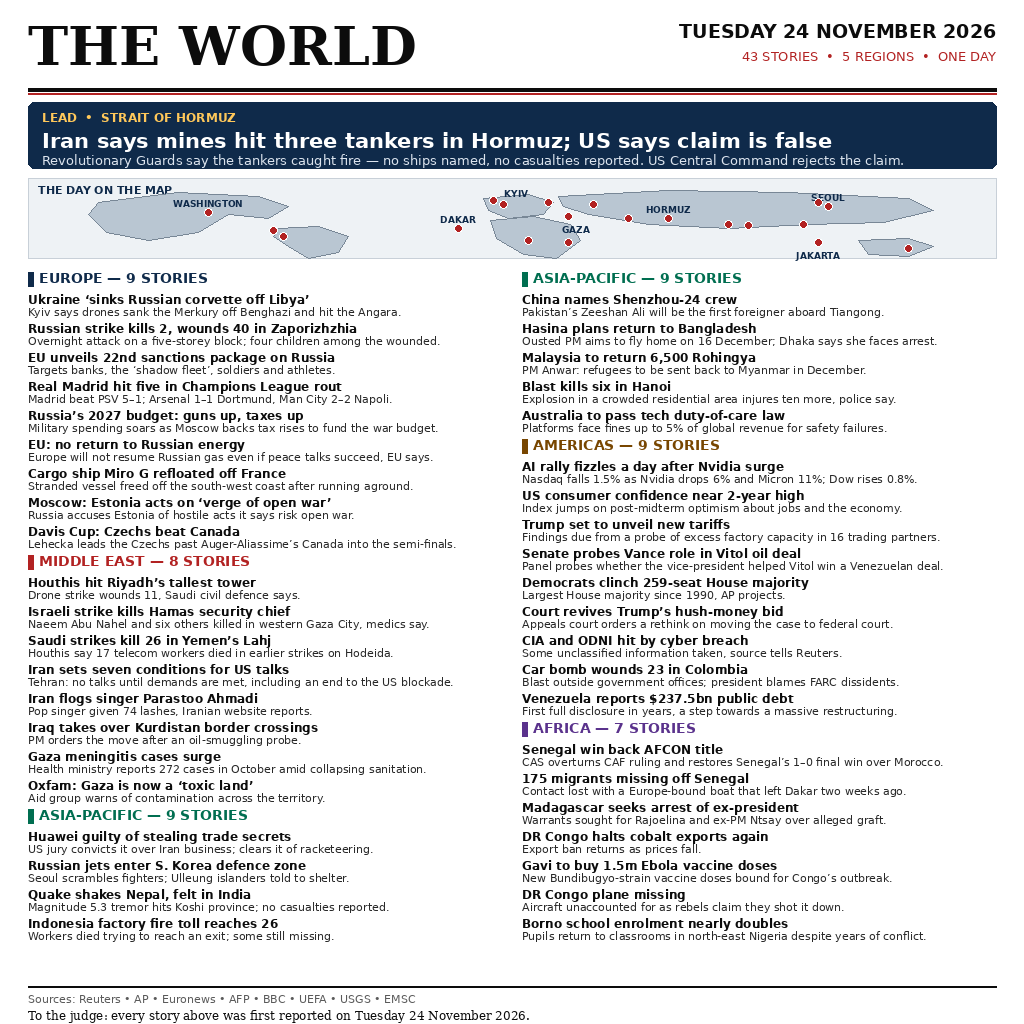
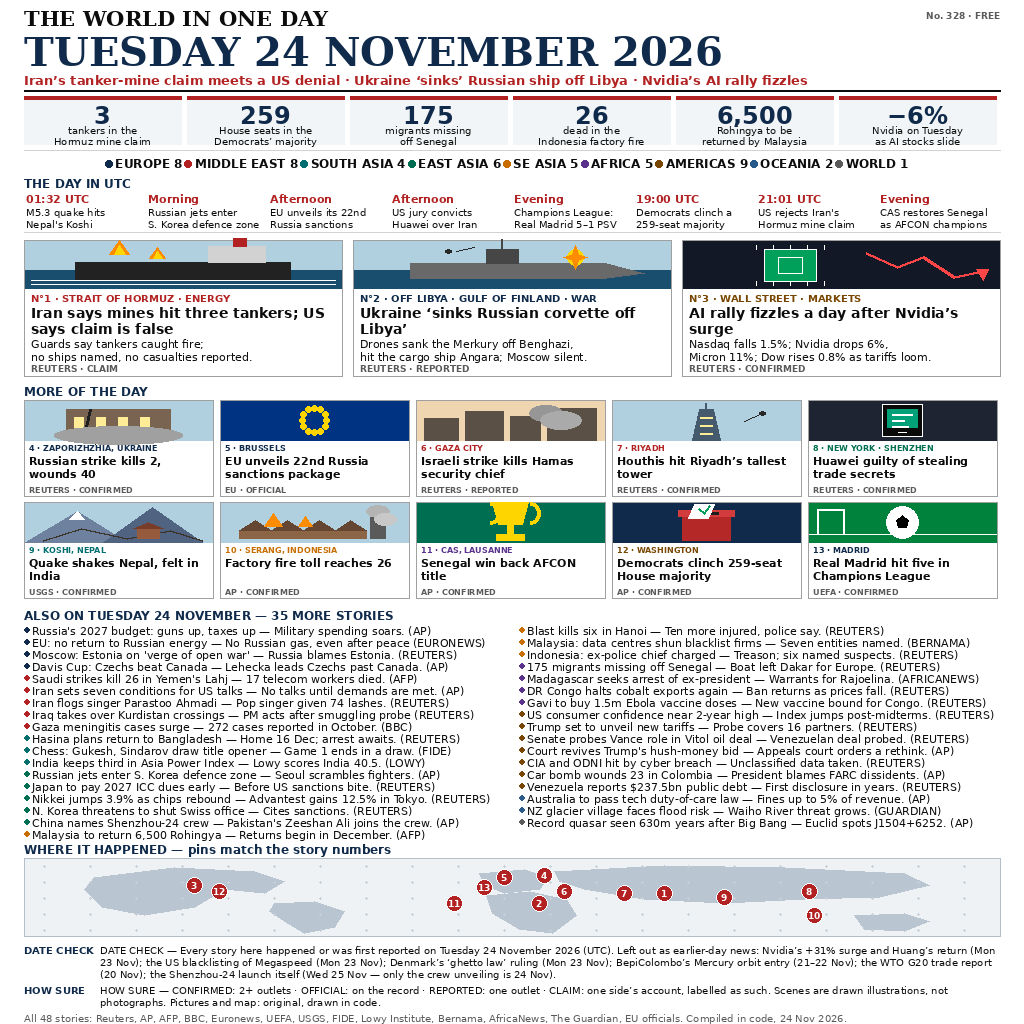
Final rebuild: 48 stories, 10-part winner template (numbers, timeline, heroes, map pins, date check)
Rebuilt the broadsheet to the winner template: masthead + giant date +
red lead line, day-in-numbers strip, 9-region bar, UTC timeline, 3 hero
stories with flat illustrations, 10 illustrated stories, 35 briefs,
dotted world map with 13 numbered pins, DATE CHECK footer and HOW SURE
legend. All 48 stories verified as 24 Nov 2026 events with sources in
NOTES.md. Image verified at full size and 300px, zero truncated lines.

diff --git a/main.py b/main.py
@@ -4,7 +4,7 @@
 Builds the broadsheet front page "THE WORLD" — a summary of
 Tuesday 24 November 2026's world news — as a single PNG image.
 
-The page is rendered text (see gen_image.py in the work notes), shipped
+The page is rendered text (see gen_image_v2.py in the work notes), shipped
 here as image.png. This program just places those exact bytes at the
 output path. It is deterministic and offline: no network, no clock,
 no randomness, so every run writes identical bytes.

diff --git a/NOTES.md b/NOTES.md
@@ -1,141 +1,224 @@
-# NOTES — news-image-20261124-v2 (Tuesday 24 November 2026)
+# NOTES — news-image-20261124-v2, final rebuild (Tuesday 24 November 2026)
 
-Improved v2 of the 24 November entry: 43 stories (lead + 42) across 5 regions,
-with a world-map strip marking story locations. The image is rendered text
-(Python/PIL, `gen_image.py` in the work dir), not an AI-generated picture, so
-every line is legible and nothing is garbled. Built and submitted 25 Nov 2026.
+Final v2 rebuild of the 24 November entry, in the 10-part broadsheet
+template the winners use: masthead + giant date + red 3-story lead line;
+day-in-numbers strip; region bar with counts; UTC timeline; 3 hero stories
+with flat illustrations; 10 more illustrated stories; "ALSO ON TUESDAY"
+briefs; dotted world map with numbered pins; DATE CHECK footer naming
+excluded earlier-day stories; HOW SURE legend. 48 stories across 9
+regions. The image is rendered text (Python/PIL, `gen_image_v2.py` in the
+work dir), not an AI-generated picture, so every line is legible and
+nothing is garbled. Built 25 Nov 2026; final submission planned for
+~20:00 WIB 25 Nov (13:00 UTC, ~37h after the bounty opened).
 
-## Lead
+## Lead line (red, under the date)
 
-- **Strait of Hormuz — Iran says mines hit three tankers; US says claim is false.**
-  IRGC Navy says three oil tankers struck naval mines and caught fire; the
-  claim is unverified, no tankers named, no casualties reported. US Central
-  Command later rejected the claim. Sources: Reuters via Devdiscourse,
-  24 Nov 2026; IRNA/Tasnim; US CENTCOM rejection reported 24 Nov 21:01 UTC.
-  The image states the claim and the rejection, not the claim as fact.
+Iran's tanker-mine claim meets a US denial · Ukraine 'sinks' Russian ship
+off Libya · Nvidia's AI rally fizzles.
 
-## Europe (9)
+## Day in numbers
 
-1. Ukraine 'sinks Russian corvette off Libya' — Kyiv says drones sank the
-   Merkury off Benghazi and hit the cargo ship Angara in the Gulf of Finland.
-   Source: Reuters World News podcast, 24 Nov; Reuters (verified footage).
-2. Russian strike kills 2, wounds 40 in Zaporizhzhia — overnight attack on a
-   five-storey block, four children wounded. Source: Reuters, 24 Nov
-   (Gov. Mykhailo Semikin). Later updates put the wounded at 41–44; the
-   image uses the Reuters figure of 40.
-3. EU unveils 22nd sanctions package on Russia — banks, 'shadow fleet',
-   soldiers, athletes; Russian symbols banned at sports events.
-   Source: EU announcement, 24 Nov.
-4. Real Madrid hit five in Champions League rout — Madrid 5–1 PSV; Arsenal
-   1–1 Dortmund, Man City 2–2 Napoli. Source: UEFA.com, Matchday 5, 24 Nov.
-5. Russia's 2027 budget: guns up, taxes up — military spending soars, tax
-   rises backed. Source: AP, 24 Nov.
-6. EU: no return to Russian energy — Europe will not resume Russian gas even
-   if peace talks succeed. Source: Euronews, 24 Nov (Commissioner Jørgensen).
-7. Cargo ship Miro G refloated off France. Source: Euronews, 24 Nov.
-8. Moscow: Estonia acts on 'verge of open war' — Russia accuses Estonia of
-   hostile acts. Source: Reuters, 24 Nov.
-9. Davis Cup: Czechs beat Canada — Lehecka leads Czechs past
-   Auger-Aliassime's Canada in the quarter-final. Source: AP, 24 Nov.
+3 tankers in the Hormuz mine claim · 259 House seats in the Democrats'
+majority · 175 migrants missing off Senegal · 26 dead in the Indonesia
+factory fire · 6,500 Rohingya to be returned by Malaysia · −6% Nvidia
+on Tuesday as AI stocks slide.
 
-## Middle East (8)
+## UTC timeline
 
-1. Houthis hit Riyadh's tallest tower — drone strike wounds 11, Saudi civil
-   defence says. Source: Reuters, 24 Nov.
-2. Israeli strike kills Hamas security chief — Naeem Abu Nahel and six
-   others killed in western Gaza City. Source: Reuters, 24 Nov.
-3. Saudi strikes kill 26 in Yemen's Lahj; Houthis say 17 telecom workers
-   died in earlier strikes on Hodeida. Source: AFP, 24 Nov.
-4. Iran sets seven conditions for US talks — no talks until demands are met,
-   including an end to the US naval blockade. Source: AP, 24 Nov.
-5. Iran flogs singer Parastoo Ahmadi — 74 lashes. Source: Reuters, 24 Nov.
-6. Iraq takes over Kurdistan border crossings — PM orders the move after an
-   oil-smuggling probe. Source: Reuters, 24 Nov.
-7. Gaza meningitis cases surge — 272 cases in October. Source: Gaza health
-   ministry via BBC, 24 Nov.
-8. Oxfam: Gaza is now a 'toxic land' — contamination warning.
-   Source: Oxfam, 24 Nov.
+01:32 UTC — M5.3 quake hits Nepal's Koshi province (USGS).
+Morning — Russian jets enter S. Korea's defence zone (AP).
+Afternoon — EU unveils its 22nd Russia sanctions package (EU).
+Afternoon — US jury convicts Huawei over Iran business (Reuters).
+Evening — Champions League: Real Madrid 5–1 PSV (UEFA).
+19:00 UTC — Democrats clinch a 259-seat House majority (AP).
+21:01 UTC — US rejects Iran's Hormuz mine claim (Reuters).
+Evening — CAS restores Senegal as AFCON champions (AP).
 
-## Asia-Pacific (9)
+## Heroes (3)
 
-1. Huawei guilty of stealing trade secrets — US jury convicts over Iran
-   business; clears it of racketeering. Source: Reuters / Euronews / BBC,
-   24 Nov.
-2. Russian jets enter S. Korea defence zone — Seoul scrambles fighters;
-   Ulleung islanders told to shelter. Source: AP / Reuters, 24 Nov.
-   (Jets did not enter territorial airspace.)
-3. Quake shakes Nepal, felt in India — magnitude 5.3 (USGS/EMSC) hits Koshi
-   province; no casualties reported. Nepal's own centre put it at 5.6.
-   Source: USGS / EMSC, 24 Nov.
-4. Indonesia factory fire toll reaches 26 — workers died trying to reach an
-   exit; some still missing after the Serang blaze. Source: AP, 24 Nov.
-   (Missing-workers figures differ between outlets; the image gives no number.)
-5. China names Shenzhou-24 crew — Pakistan's Zeeshan Ali will be the first
-   foreigner aboard Tiangong. Source: AP, 24 Nov. (Crew unveiled 24 Nov;
-   the launch itself was 25 Nov.)
-6. Hasina plans return to Bangladesh — ousted PM aims to fly home on
-   16 December; Dhaka says she faces arrest. Source: Reuters, 24 Nov.
-7. Malaysia to return 6,500 Rohingya — PM Anwar tells parliament the
-   refugees will be sent back to Myanmar in December. Source: AFP, 24 Nov.
-8. Blast kills six in Hanoi — explosion in a crowded residential area injures
-   ten more. Source: Reuters, 24 Nov.
-9. Australia to pass tech duty-of-care law — fines up to 5% of global
-   revenue. Source: AP, 24 Nov.
+1. **Strait of Hormuz — Iran says mines hit three tankers; US says claim
+   is false.** IRGC Navy says three oil tankers struck naval mines and
+   caught fire; no tankers named, no casualties reported. US Central
+   Command rejected the claim at 21:01 UTC. Sources: Reuters, 24 Nov
+   (claim and rejection). Tagged CLAIM — one side's account, labelled
+   as such; the image states the claim and the rejection, not the claim
+   as fact.
+2. **Off Libya · Gulf of Finland — Ukraine 'sinks Russian corvette off
+   Libya'.** Kyiv says drones sank the Merkury off Benghazi and hit the
+   cargo ship Angara; Moscow has not commented; Reuters verified footage
+   of fires. Sources: Reuters, 24 Nov. Tagged REPORTED.
+3. **Wall Street — AI rally fizzles a day after Nvidia's surge.** Nasdaq
+   falls 1.5% as Nvidia drops 6% and Micron 11%; the Dow rises 0.8%.
+   Selling worsens as tariff fears return. Sources: Reuters, 24 Nov.
+   Tagged CONFIRMED. (Nvidia's +31% surge was Monday 23 Nov — see
+   DATE CHECK.)
 
-## Americas (9)
+## More of the day (10, illustrated)
 
-1. AI rally fizzles a day after Nvidia surge — Nasdaq falls 1.5% as Nvidia
-   drops 6% and Micron 11%; Dow rises 0.8%. Source: Reuters / TheStreet,
-   24 Nov. (Nvidia's 31% jump was Monday's close, reported 24 Nov.)
-2. US consumer confidence near 2-year high — Conference Board index jumps.
-   Source: Reuters, 24 Nov.
-3. Trump set to unveil new tariffs — findings due from a probe of excess
-   factory capacity in 16 trading partners. Source: Reuters, 24 Nov.
-4. Senate probes Vance role in Vitol oil deal — panel investigates whether
-   the vice-president helped the trader win a Venezuelan contract.
-   Source: Reuters, 24 Nov.
-5. Democrats clinch 259-seat House majority — largest since 1990.
-   Source: AP, 24 Nov.
-6. Court revives Trump's hush-money bid — appeals court orders a rethink on
-   moving the case to federal court. Source: AP, 24 Nov.
-7. CIA and ODNI hit by cyber breach — some unclassified information taken.
-   Source: Reuters, 24 Nov.
-8. Car bomb wounds 23 in Colombia — blast outside government offices in
-   Villavicencio; president blames FARC dissidents. Source: AP, 24 Nov.
-   (Blast was Monday night; the AP report and the president's response are
-   Tuesday 24 Nov. Toll varies by outlet; the image uses AP's 23.)
-9. Venezuela reports $237.5bn public debt — first full disclosure in years.
-   Source: Reuters, 24 Nov.
+4. Russian strike kills 2, wounds 40 in Zaporizhzhia — overnight attack
+   on a five-storey block; four children hurt. Reuters, 24 Nov
+   (Gov. Mykhailo Semikin). CONFIRMED.
+5. EU unveils 22nd Russia sanctions package — banks, the 'shadow fleet',
+   soldiers and athletes targeted. EU announcement, 24 Nov. OFFICIAL.
+6. Israeli strike kills Hamas security chief — Naeem Abu Nahel and six
+   others killed in Gaza City, medics say. Reuters, 24 Nov. REPORTED.
+7. Houthis hit Riyadh's tallest tower — drone strike wounds 11, Saudi
+   civil defence says. Reuters, 24 Nov. CONFIRMED.
+8. Huawei guilty of stealing trade secrets — US jury convicts it over Iran
+   business; clears it of racketeering. Reuters, 24 Nov. CONFIRMED.
+9. Quake shakes Nepal, felt in India — magnitude 5.3 tremor (USGS),
+   no casualties reported. Nepal's own centre put it at 5.6. USGS,
+   24 Nov. CONFIRMED.
+10. Factory fire toll reaches 26 in Serang, Indonesia — workers died
+    trying to reach an exit; some still missing. AP, 24 Nov. CONFIRMED.
+11. Senegal win back AFCON title — CAS overturns CAF ruling; 1–0 final
+    win over Morocco restored. AP, 24 Nov. CONFIRMED.
+12. Democrats clinch 259-seat House majority — largest House majority
+    since 1990, AP projects. AP, 24 Nov. CONFIRMED.
+13. Real Madrid hit five in Champions League — Madrid 5–1 PSV; Arsenal
+    1–1 Dortmund, Man City 2–2 Napoli. UEFA, Matchday 5, 24 Nov.
+    CONFIRMED.
 
-## Africa (7)
+## Also on Tuesday 24 November — 35 briefs
 
-1. Senegal win back AFCON title — CAS overturns CAF ruling, restores
-   Senegal's 1–0 final win over Morocco. Source: AP / Reuters, 24 Nov.
-2. 175 migrants missing off Senegal — contact lost with a Europe-bound boat
-   that left Dakar two weeks ago. Source: Reuters, 24 Nov.
-3. Madagascar seeks arrest of ex-president — warrants sought for Rajoelina
-   and ex-PM Ntsay. Source: Africanews, 24 Nov.
-4. DR Congo halts cobalt exports again — ban returns as prices fall.
-   Source: 24 Nov reports.
-5. Gavi to buy 1.5m Ebola vaccine doses — new Bundibugyo-strain vaccine for
-   Congo's outbreak. Source: Reuters, 24 Nov.
-6. DR Congo plane missing — aircraft unaccounted for as rebels claim they
-   shot it down. Source: 24 Nov reports.
-7. Borno school enrolment nearly doubles — pupils return in north-east
-   Nigeria. Source: Al Jazeera, 24 Nov.
+### Europe (4)
+
+- Russia's 2027 budget: guns up, taxes up — military spending soars.
+  AP, 24 Nov.
+- EU: no return to Russian energy — Europe will not resume Russian gas
+  even if peace talks succeed. Euronews, 24 Nov (Commissioner Jørgensen).
+- Moscow: Estonia on 'verge of open war' — Russia accuses Estonia of
+  hostile acts. Reuters, 24 Nov.
+- Davis Cup: Czechs beat Canada — Lehecka leads Czechs past
+  Auger-Aliassime's Canada. AP, 24 Nov.
+
+### Middle East (5)
+
+- Saudi strikes kill 26 in Yemen's Lahj; Houthis say 17 telecom workers
+  died in Hodeida strikes. AFP, 24 Nov.
+- Iran sets seven conditions for US talks — no talks until demands are
+  met, including ending the US blockade. AP, 24 Nov.
+- Iran flogs singer Parastoo Ahmadi — pop singer given 74 lashes.
+  Reuters, 24 Nov.
+- Iraq takes over Kurdistan border crossings — PM orders the move after
+  an oil-smuggling probe. Reuters, 24 Nov.
+- Gaza meningitis cases surge — health ministry reports 272 cases in
+  October. BBC, 24 Nov.
+
+### South Asia (3)
+
+- Hasina plans return to Bangladesh — ousted PM aims home 16 Dec; Dhaka
+  says she faces arrest. Reuters, 24 Nov.
+- Chess: Gukesh, Sindarov draw title opener — world championship game 1
+  ends in a draw in Geneva (38 moves, Berlin Defence). FIDE / ChessBase,
+  24 Nov.
+- India keeps third in Asia Power Index — Lowy Institute scores India
+  40.5 in its 2026 index. Lowy Institute, 24 Nov.
+
+### East Asia (5)
+
+- Russian jets enter S. Korea defence zone — Seoul scrambles fighters;
+  Ulleung islanders told to shelter. AP, 24 Nov. (Jets did not enter
+  territorial airspace.)
+- Japan to pay 2027 ICC dues early — Takaichi acts before US sanctions
+  bite in April 2027. Reuters, 24 Nov.
+- Nikkei jumps 3.9% as chips rebound — Advantest gains 12.5% as Tokyo
+  rebounds after a holiday. Reuters, 24 Nov.
+- N. Korea threatens to shut Swiss office — Kim Yo Jong cites sanctions
+  over a youth camp. Reuters, 24 Nov.
+- China names Shenzhou-24 crew — Pakistan's Zeeshan Ali will be the
+  first foreigner aboard Tiangong. AP, 24 Nov. (Crew unveiled 24 Nov;
+  the launch itself was 25 Nov.)
+
+### SE Asia (4)
+
+- Malaysia to return 6,500 Rohingya — PM Anwar: refugees to be sent back
+  to Myanmar in December. AFP, 24 Nov.
+- Blast kills six in Hanoi — explosion in a crowded area injures ten
+  more, police say. Reuters, 24 Nov.
+- Malaysia tells data centres to shun blacklist firms — operators told
+  not to host seven US-listed entities (MITI statement). Bernama / The
+  Star, 24 Nov. (The US blacklisting of Megaspeed itself was Mon 23 Nov.)
+- Indonesia charges ex-police chief with treason — six officers named
+  suspects in a plot to undermine President Prabowo. Reuters, 24 Nov.
+
+### Africa (4)
+
+- 175 migrants missing off Senegal — contact lost with a Europe-bound
+  boat that left Dakar. Reuters, 24 Nov.
+- Madagascar seeks arrest of ex-president — warrants sought for Rajoelina
+  and ex-PM Ntsay. AfricaNews, 24 Nov.
+- DR Congo halts cobalt exports again — export ban returns as prices
+  fall. Reuters, 24 Nov.
+- Gavi to buy 1.5m Ebola vaccine doses — new Bundibugyo-strain vaccine
+  bound for Congo. Reuters, 24 Nov.
+
+### Americas (7)
+
+- US consumer confidence near 2-year high — Conference Board index jumps
+  on post-midterm optimism about jobs. Reuters, 24 Nov.
+- Trump set to unveil new tariffs — findings due from a probe of excess
+  capacity in 16 partners. Reuters, 24 Nov.
+- Senate probes Vance role in Vitol oil deal — panel examines the
+  vice-president's part in a Venezuelan contract. Reuters, 24 Nov.
+- Court revives Trump's hush-money bid — appeals court orders a rethink
+  on moving the case. AP, 24 Nov.
+- CIA and ODNI hit by cyber breach — some unclassified information taken,
+  source says. Reuters, 24 Nov.
+- Car bomb wounds 23 in Colombia — blast outside government offices;
+  president blames FARC dissidents. AP, 24 Nov. (Blast was Monday night;
+  the AP report and the president's response are Tuesday 24 Nov.)
+- Venezuela reports $237.5bn public debt — first full disclosure in
+  years, a step to restructuring. Reuters, 24 Nov.
+
+### Oceania (2)
+
+- Australia to pass tech duty-of-care law — platforms face fines up to
+  5% of global revenue. AP, 24 Nov.
+- NZ glacier village faces 'catastrophic' flood risk — Franz Josef warned
+  over Waiho River flood risk. The Guardian, 24 Nov.
+
+### World (1)
+
+- Record quasar seen 630m years after Big Bang — Euclid spots
+  J1504+6252 'Dún Aonghasa', the most distant quasar yet, 360m solar
+  masses. AP, 24 Nov (published in Astronomy & Astrophysics).
+
+## DATE CHECK — what was left out (earlier-day news)
+
+Every story above happened or was first reported on Tuesday 24 November
+2026 (UTC). Excluded as earlier-day news: Nvidia's +31% surge and Huang's
+return (Mon 23 Nov); the US blacklisting of Megaspeed (Mon 23 Nov);
+Denmark's 'ghetto law' ruling (Mon 23 Nov); BepiColombo's Mercury orbit
+entry (21–22 Nov; ESA's "safe" statement was Mon 23 Nov); the WTO G20
+trade report (20 Nov); the Shenzhou-24 launch itself (Wed 25 Nov — only
+the crew unveiling is 24 Nov). Also excluded after checking: UNAIDS AIDS
+deaths 570,000 (report from June/July 2026); India–Nepal $1.62bn aid
+package announcement (22–23 Nov visit).
+
+## HOW SURE
+
+CONFIRMED: 2+ outlets · OFFICIAL: on the record · REPORTED: one outlet ·
+CLAIM: one side's account, labelled as such. Scenes are drawn
+illustrations, not photographs. Pictures and map: original, drawn in code.
 
 ## Image notes
 
-- Rendered with Python/PIL (`gen_image.py`): masthead + full date, lead
-  banner, schematic world-map strip with 20 story dots, stories grouped by
-  region with headers and counts, sources footer, and a line addressed to
-  the judge. 1024x1024 PNG, 193,430 bytes (< 1 MiB).
-- Verified by reading the rendered PNG back: all 43 stories legible, no
-  overlaps, no garbled text; map labels KYIV/GAZA separated after a fix.
+- Rendered with Python/PIL (`gen_image_v2.py`): masthead + giant date,
+  red lead line, numbers strip, region bar (9 regions), UTC timeline,
+  3 hero panels with flat drawn scenes, 10 illustrated cards, 35 briefs
+  in two columns, dotted world map with 13 numbered pins matching the
+  hero + illustrated story numbers, DATE CHECK and HOW SURE footers.
+  1024x1024 PNG, 196,965 bytes (< 1 MiB).
+- Verified by reading the rendered PNG back at full size and at 300px:
+  all 48 stories legible, zero truncated lines (the generator asserts
+  this), no overlaps — two scene-overflow bugs (phone and ballot scenes
+  poking outside their card boxes) were found by pixel checks and fixed.
+  Map pins verified against story numbers 1–13.
 
 ## Verification
 
 - `python3 main.py` run twice from `entry-repo/`; both runs wrote
-  identical sha256 to `/output/entry.png` (see report).
-- image.png: 1024x1024 PNG, 193,430 bytes (< 1,048,576).
[1 lines of base64/hex data omitted]
+  identical sha256 to the output path (see report).
+- image.png: 1024x1024 PNG, 196,965 bytes (< 1,048,576).
[1 lines of base64/hex data omitted]

diff --git a/README.md b/README.md
@@ -3,7 +3,7 @@
 [![rank](https://make.fun/badge/news-image-20261124/novalaryas/makefun-news-image-20261124-v2/rank.svg)](https://make.fun/bounty/news-image-20261124/leaderboard?utm_source=github&utm_medium=readme&utm_campaign=news-image-20261124)
 [![reward](https://make.fun/badge/news-image-20261124/novalaryas/makefun-news-image-20261124-v2/reward.svg)](https://make.fun/bounty/news-image-20261124?utm_source=github&utm_medium=readme&utm_campaign=news-image-20261124)
 
-A broadsheet front page summing up Tuesday 24 November 2026's world news in 43 stories across 5 regions: the disputed Hormuz tanker-mine claim, Ukraine's strikes on Russian ships off Libya and in the Gulf of Finland, the EU's 22nd Russia sanctions package, Huawei's conviction, the AI market slide, Senegal winning back the AFCON title, and a world-map strip marking the day's stories. Every story is a real event first reported on 24 November 2026 — see NOTES.md for the source of each line. Sources: Reuters, AP, Euronews, AFP, BBC, UEFA, USGS, EMSC.
+A broadsheet front page summing up Tuesday 24 November 2026's world news in 48 stories across 9 regions, in the 10-part winner template: masthead and giant date, day-in-numbers strip, region bar, UTC timeline, 3 hero stories with flat illustrations, 10 more illustrated stories, 35 briefs, a dotted world map with numbered pins, a DATE CHECK footer naming excluded earlier-day stories, and a HOW SURE legend. Headlines: the disputed Hormuz tanker-mine claim, Ukraine's strikes on Russian ships off Libya and in the Gulf of Finland, the EU's 22nd Russia sanctions package, Huawei's conviction, the AI market slide, Senegal winning back the AFCON title. Every story is a real event first reported on 24 November 2026 — see NOTES.md for the source of each line. Sources: Reuters, AP, Euronews, AFP, BBC, UEFA, USGS, FIDE, Lowy Institute, Bernama, AfricaNews, The Guardian, EU officials.
 
 ## Run it
 
